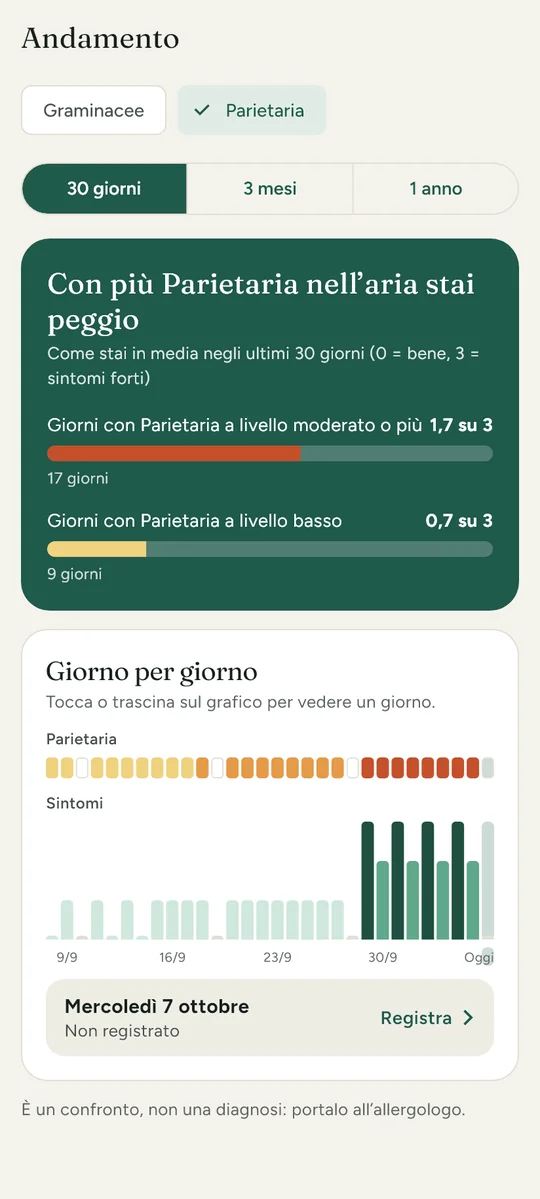
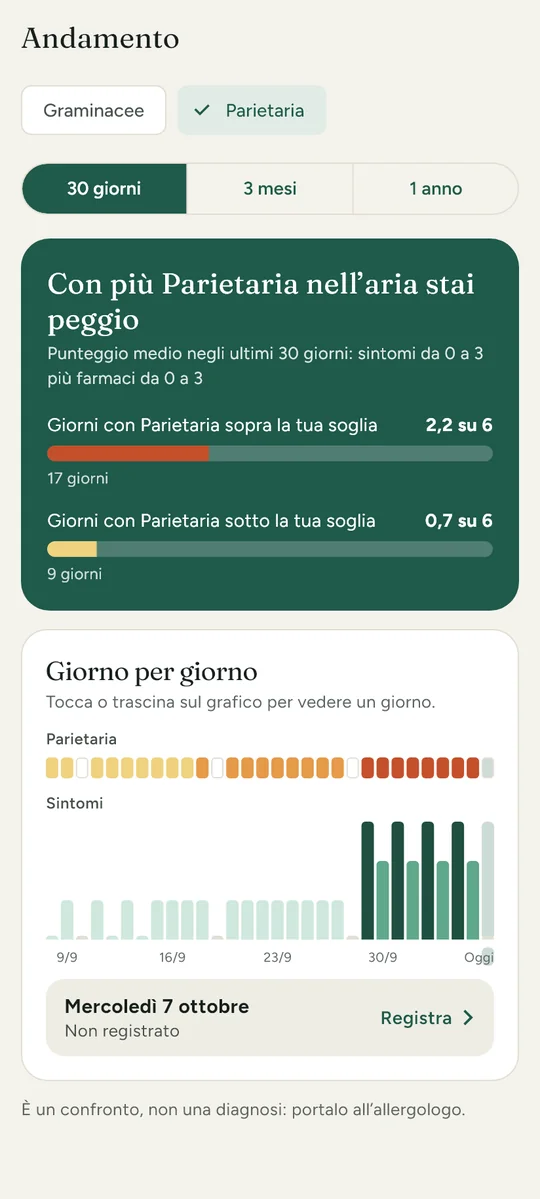
docs: README su punteggio del confronto e avvisi

diff --git a/README.md b/README.md
@@ -34,7 +34,7 @@ Serve Android 7.0 o successivo.
 - 🏷 Ogni valore dice se è una **previsione**, una **misura** o una **stima**
 - 🔎 Dettaglio di ogni allergene: ora per ora, prossimi giorni, stagione e la tua soglia
 - 📓 Diario dei sintomi da 10 secondi, con i farmaci più usati già in lista, sonno e ore all’aperto
-- 📈 Andamento: per ogni allergene, se stai peggio quando ce n’è di più, e giorno per giorno
+- 📈 Andamento: per ogni allergene, se stai peggio nei giorni sopra la tua soglia, con un punteggio sintomi + farmaci adattato dal CSMS dell’EAACI; le misure ISPRA completano da sole i giorni passati
 - 🗓 Calendario stagionale per **Nord**, **Centro** e **Sud e Isole**
 - 📍 Luogo da ricerca città o dalla posizione approssimativa, con il nome del comune
 - 📲 Widget Android per la schermata Home, con le pagine degli allergeni e il tasto per aggiornare
@@ -49,13 +49,13 @@ Serve Android 7.0 o successivo.
 
 L’app può mandare tre avvisi, ognuno con il suo orario, anche ad app chiusa:
 
-- ☀ **Pollini di oggi**, ogni mattina: i tuoi pollini della giornata, anche solo nei giorni sopra la tua soglia
-- 📈 **Allerta per domani**, la sera prima: se domani un tuo allergene supera la soglia
-- 📓 **Promemoria diario**, la sera, se oggi non hai ancora registrato
+- ☀ **Pollini di oggi**: cosa c’è nell’aria oggi per i tuoi allergeni, anche solo nei giorni sopra la tua soglia
+- 📈 **Allerta per domani**: il giorno prima, se domani un tuo allergene supera la soglia
+- 📓 **Promemoria diario**: se oggi non hai ancora registrato i sintomi
 
 La soglia è il livello da cui un allergene ti dà fastidio: la scegli per ognuno in «I miei allergeni».
 
-Con «Orario esatto» attivo (permesso Android «Sveglie e promemoria») arrivano all’ora scelta; senza, possono tardare fino a un’ora.
+Con «Orario esatto» attivo (permesso Android «Sveglie e promemoria») arrivano all’ora scelta; senza, possono tardare fino a un’ora. L’interruttore compare già al primo avvio.
 
 Le notifiche sono gestite su Android tramite:
 
